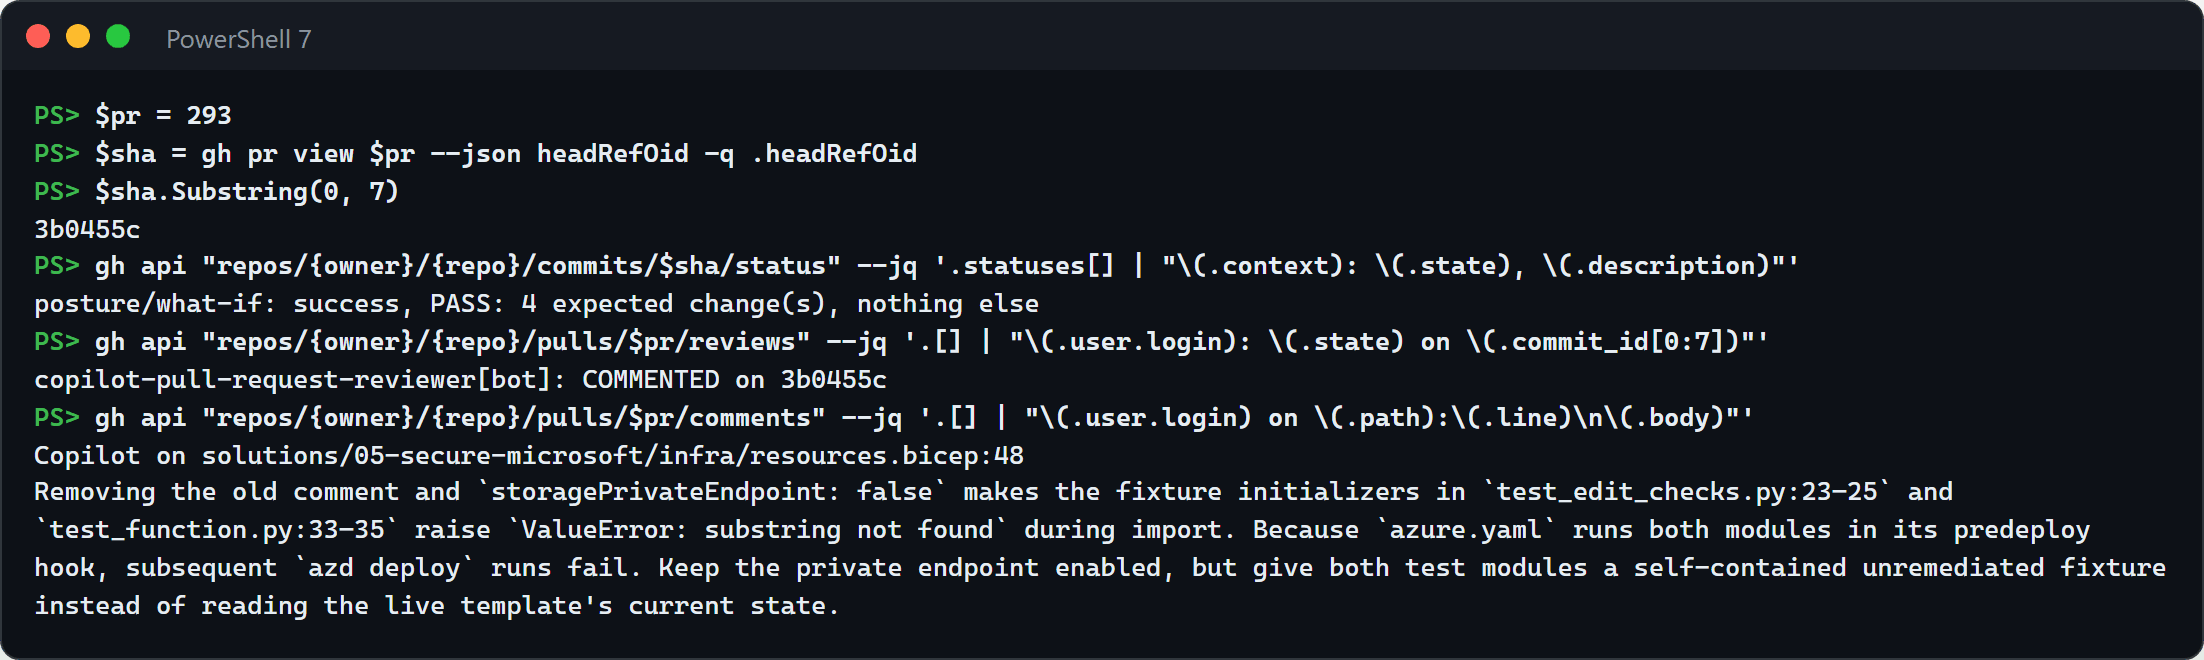
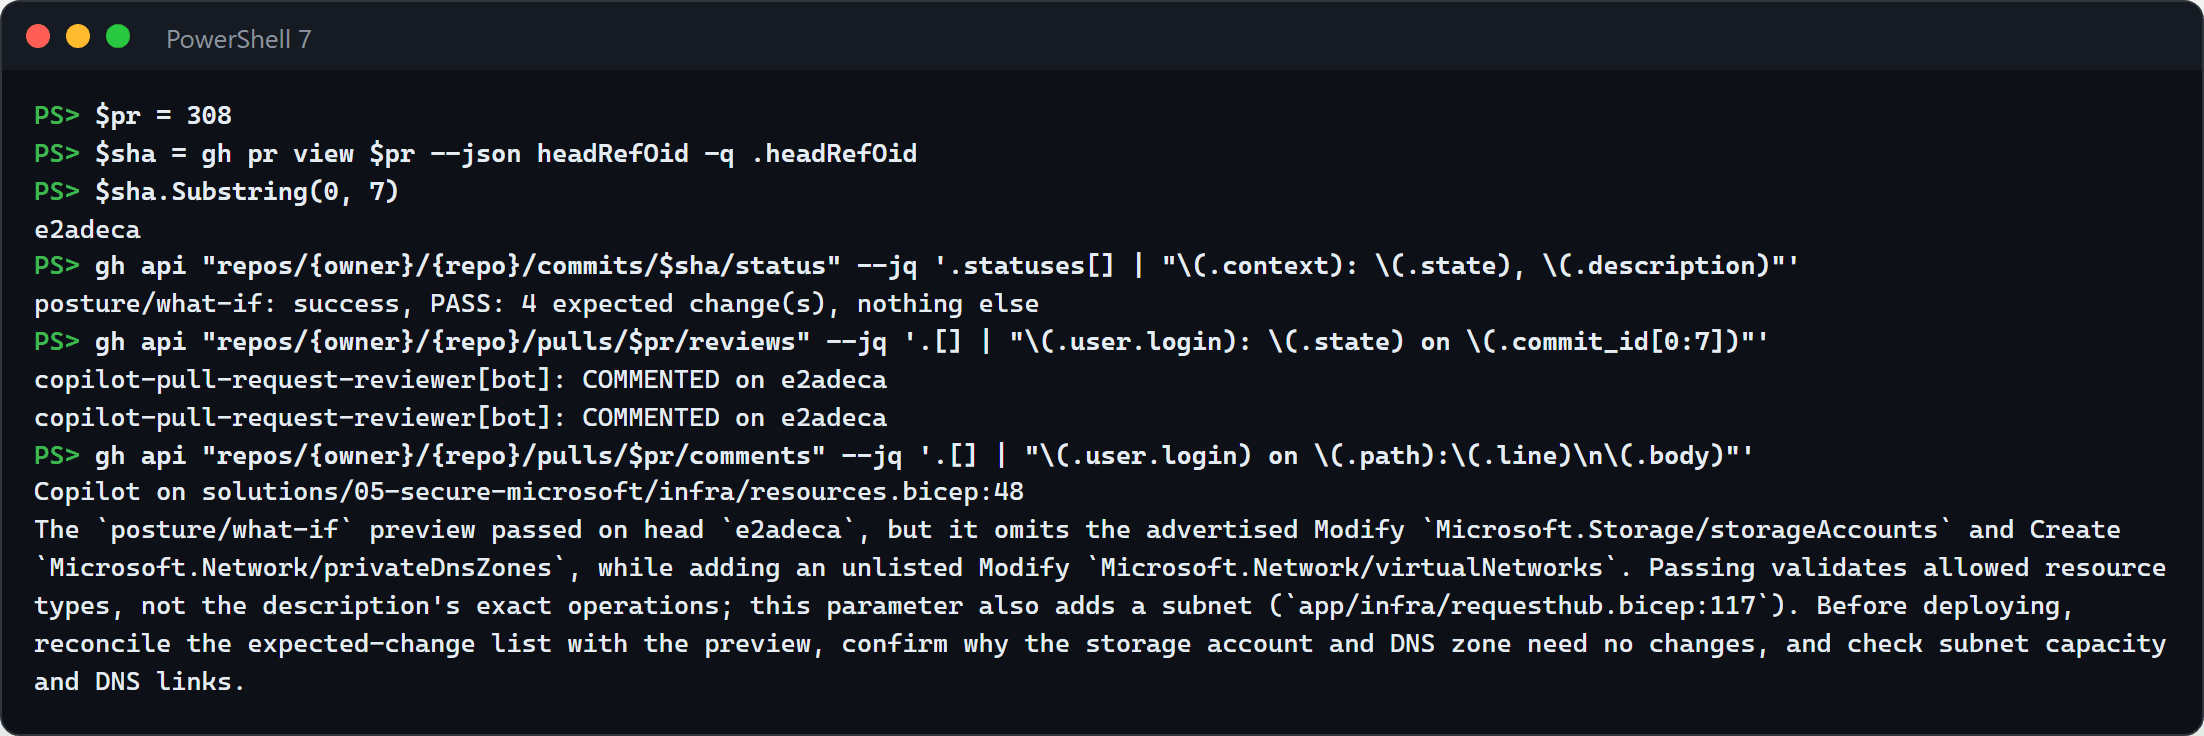
Secure combo: Copilot's instructed review after #298, and the what-if token trap
After #298 put the posture review instruction on main, the Secure combo ran again from the
portal's Trigger logic app: posture Issue #307, the Foundry agent's draft #308, Azure's what-if
PASS on e2adeca, and Copilot's review of the same commit comparing the preview with the agent's
expected changes. Step 4's screenshot and text now come from that run, with a note to request the
review once posture/what-if reads success: Copilot's first review came while the preview was
pending and said only that it wasn't available yet.

05-secure-microsoft Troubleshooting: azd provision from an environment without
POSTURE_GITHUB_TOKEN sets the what-if job's token secret to not-set, and the job fails with HTTP 401
while the Function keeps working from Key Vault. Seen after the redeploy that #298 required.

Changed region(s): [[0.0, 0.1515, 0.9873, 0.9394], [0.0, 0.0303, 0.1543, 0.0909]]

diff --git a/solutions/05-secure-microsoft/README.md b/solutions/05-secure-microsoft/README.md
@@ -400,6 +400,7 @@ azd env remove ai-sdlc-secure --force
 - **`AzureCLICredential: exit status 1` during `azd up`, `azd deploy`, or `azd provision`.** azd could not get a token from the Azure CLI, which happens when other Azure CLI sessions run at the same time. Run `az account get-access-token`, then run the command again.
 - **`azd up` fails in the postprovision hook with `ModuleNotFoundError`.** The hook runs `python remediation_agent.py publish` with the first Python on your PATH. Run `pip install -r requirements.txt` with that Python, or activate the virtual environment you installed it in, then run `azd provision`.
 - **A `posture-intake` run fails at *Send it to the posture Function*.** Open the step: its output is the Function's answer. HTTP 409 means the GitHub token is not in Key Vault; HTTP 502 with `GitHub answered HTTP 401` means it expired or was revoked. Create a new one ([Set up](#set-up), step 1), store it with `azd env set POSTURE_GITHUB_TOKEN (Read-Host -MaskInput 'GitHub token')`, and run `azd provision`. HTTP 404 right after the first `azd provision` of a new environment means the Function's code is not deployed yet: run `azd deploy posture`.
+- **`posture/what-if` stays pending after an `azd provision`, and the `posture-whatif` job's execution failed.** The job reads its GitHub token from a secret that `azd provision` sets from the azd environment. When `POSTURE_GITHUB_TOKEN` is missing there, for example in a new clone, provision sets that secret to `not-set`, and the job's console log in Log Analytics ends with `HTTP Error 401: Unauthorized`. The Function keeps working, because it reads Key Vault, which provision writes only when it has a token. Store the token with `azd env set POSTURE_GITHUB_TOKEN (Read-Host -MaskInput 'GitHub token')`, run `azd provision` again, then start the job: `az containerapp job start -g (azd env get-value AZURE_RESOURCE_GROUP) -n posture-whatif`. It previews every open pull request whose head is still pending.
 - **A push to the pull request starts no preview.** In the repository's **Settings** > **Webhooks**, open the posture webhook's **Recent Deliveries**. HTTP 401 `invalid signature` means the webhook's secret and Key Vault's differ: run `azd provision`, whose hooks set both from the azd environment. A delivery that timed out after 10 seconds reached a Function that was starting; it can still have started the preview.
 - **The commit status `posture/what-if` says the preview could not start in Azure.** In RequestHub's Application Insights, open **Logs** and run `traces | where message has "JobStartOverrideAuthorizationFailed"`. A match means the deployment predates the job's `--pending` mode: the Function started the job with a template override, which Azure now allows only with write access on the job, and the Function's identity has none. Run `azd provision`, then `azd deploy posture`, from an up-to-date `main`. Then update the pull request, for example edit its description: the Function previews a commit again when its last preview ended in error.
 - **`verify` adds nothing to the Issue.** The `az rest` command only starts it. Its result is in RequestHub's Application Insights: open **Logs** and run `traces | where message startswith "verify"`. *Not fixed yet* means the storage account has no approved private endpoint: run `azd provision` on an up-to-date `main`. *Does not report the storage account compliant yet* means Azure Policy took longer than 20 minutes: start `verify` again, or let the next hourly run try.

diff --git a/PRESENTING.md b/PRESENTING.md
@@ -396,7 +396,7 @@ A security team wants a cloud misconfiguration fixed in code, reviewed like any 
 
    **Point out:** the preview lists every resource a deployment would create or modify, before anyone deploys.
 
-4. **Copilot reviews the same commit** (3 to 4 minutes; 2 minutes 55 seconds to 3 minutes 56 seconds in our runs). In the pull request's **Reviewers**, next to **Copilot**, select **Request**, or from the repository folder:
+4. **Copilot reviews the same commit** (3 to 4 minutes; 2 minutes 55 seconds to 4 minutes in our runs). Once `posture/what-if` reads success, in the pull request's **Reviewers**, next to **Copilot**, select **Request**, or from the repository folder:
 
    ```powershell
    $pr = <pull request number>
@@ -413,9 +413,9 @@ A security team wants a cloud misconfiguration fixed in code, reviewed like any 
    gh api "repos/{owner}/{repo}/pulls/$pr/comments" --jq '.[] | "\(.user.login) on \(.path):\(.line)\n\(.body)"'
    ```
 
-   ![PowerShell output for pull request 293: head commit 3b0455c, the commit status posture/what-if success with PASS: 4 expected changes, Copilot's review COMMENTED on 3b0455c, and Copilot's comment on resources.bicep line 48 that removing the old lines would break the fixtures of the solution's predeploy tests, so later azd deploy runs would fail](solutions/05-secure-github/images/combo-04-copilot-review.png)
+   ![PowerShell output for pull request 308: head commit e2adeca, the commit status posture/what-if success with PASS: 4 expected changes, nothing else, two reviews by Copilot COMMENTED on e2adeca, and Copilot's comment on resources.bicep line 48: the preview passed but omits two changes the agent listed, a modified storage account and a new private DNS zone, and shows a virtual network change the agent didn't list, so reconcile the list with the preview and check the subnet's capacity and the DNS links before deploying](solutions/05-secure-github/images/combo-04-copilot-review.png)
 
-   Copilot's comments differ from run to run. In the run shown, it found that merging the fix would break the solution's own predeploy tests. In another, it named the agent's expected changes that the preview doesn't show, both already in place, and the change the preview shows that the agent didn't expect.
+   Copilot's comments differ from run to run. In the run shown, after #298 put the instruction on `main`, it compared Azure's preview with the agent's expected changes: two expected changes the preview doesn't show, and one change the preview shows that the agent didn't list. Its first review of the same commit came while the preview was still pending, and said only that the preview wasn't available yet, so request the review once `posture/what-if` reads success, or request it again. In an earlier run, before the instruction was on `main`, it found that merging the fix would break the solution's own predeploy tests.
 
    **Point out:** Copilot reviewed the commit Azure previewed, and found what neither the Function's checks nor the preview could see.
 
